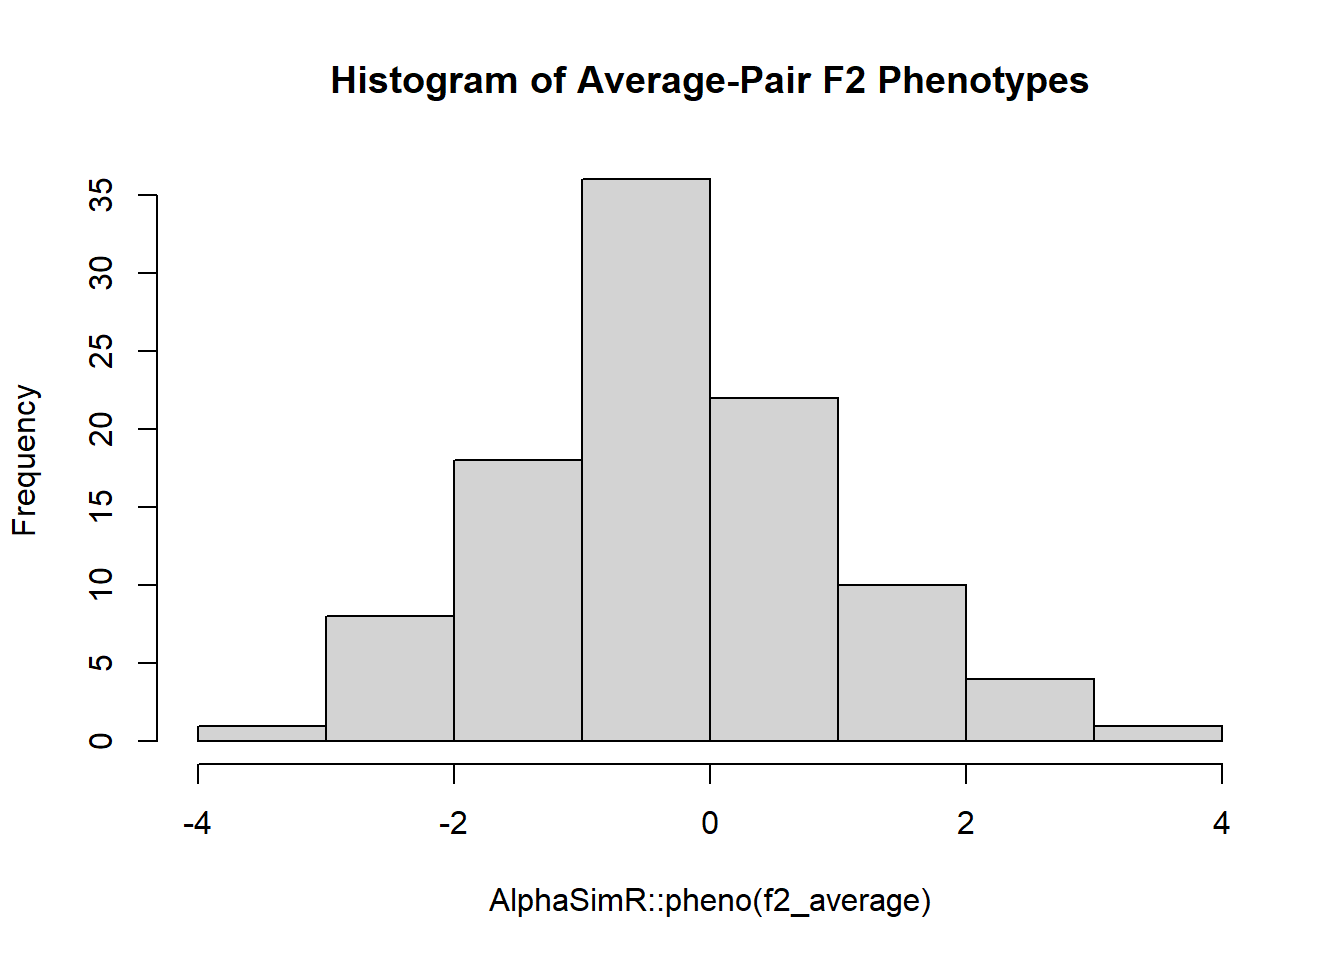
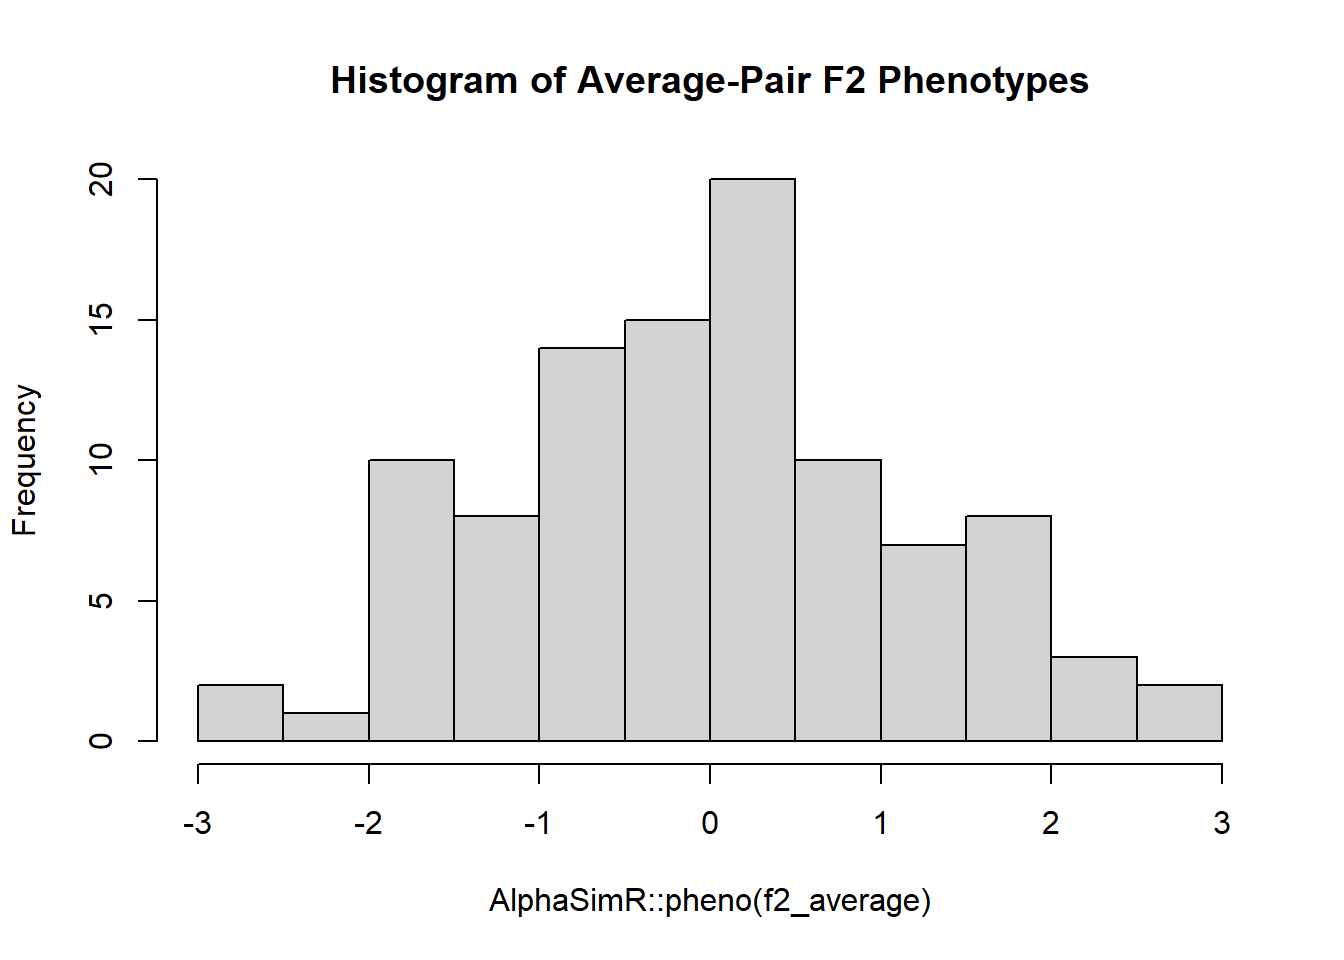
wflow_git_commit(all = TRUE)

diff --git a/docs/Lab2_ProgrammingAlphaSimR.html b/docs/Lab2_ProgrammingAlphaSimR.html
@@ -498,16 +498,16 @@ This reproducible <a href="http://rmarkdown.rstudio.com">R Markdown</a> analysis
 <div class="panel panel-default">
 <div class="panel-heading">
 <p class="panel-title">
-<a data-toggle="collapse" data-parent="#workflowr-checks" href="#strongRepositoryversionstrong0b0f372"> <span class="glyphicon glyphicon-ok text-success" aria-hidden="true"></span> <strong>Repository version:</strong> 0b0f372 </a>
+<a data-toggle="collapse" data-parent="#workflowr-checks" href="#strongRepositoryversionstrong124bcdf"> <span class="glyphicon glyphicon-ok text-success" aria-hidden="true"></span> <strong>Repository version:</strong> 124bcdf </a>
 </p>
 </div>
-<div id="strongRepositoryversionstrong0b0f372" class="panel-collapse collapse">
+<div id="strongRepositoryversionstrong124bcdf" class="panel-collapse collapse">
 <div class="panel-body">
 <p>
 Great! You are using Git for version control. Tracking code development and connecting the code version to the results is critical for reproducibility.
 </p>
 <p>
-The results in this page were generated with repository version 0b0f372. See the <em>Past versions</em> tab to see a history of the changes made to the R Markdown and HTML files.
+The results in this page were generated with repository version 124bcdf. See the <em>Past versions</em> tab to see a history of the changes made to the R Markdown and HTML files.
 </p>
 <p>
 Note that you need to be careful to ensure that all relevant files for the analysis have been committed to Git prior to generating the results (you can use <code>wflow_publish</code> or <code>wflow_git_commit</code>). workflowr only checks the R Markdown file, but you know if there are other scripts or data files that it depends on. Below is the status of the Git repository when the results were generated:
@@ -559,6 +559,23 @@ Message
 </tr>
 </thead>
 <tbody>
+<tr>
+<td>
+html
+</td>
+<td>
+124bcdf
+</td>
+<td>
+plantwizard
+</td>
+<td>
+2021-02-15
+</td>
+<td>
+Build site.
+</td>
+</tr>
 <tr>
 <td>
 Rmd
@@ -703,7 +720,7 @@ str(founders)</code></pre>
   ..@ father : chr [1:100] &quot;0&quot; &quot;0&quot; &quot;0&quot; &quot;0&quot; ...
   ..@ sex    : chr [1:100] &quot;H&quot; &quot;H&quot; &quot;H&quot; &quot;H&quot; ...
   ..@ nTraits: int 1
-  ..@ gv     : num [1:100, 1] 0.135 0.32 0.608 0.227 0.711 ...
+  ..@ gv     : num [1:100, 1] 0.0946 -0.4174 -2.3407 -0.8747 -1.8342 ...
   ..@ pheno  : num [1:100, 1] NA NA NA NA NA NA NA NA NA NA ...
   ..@ ebv    : num[1:100, 0 ] 
   ..@ gxe    :List of 1
@@ -816,16 +833,16 @@ str(founders)</code></pre>
   ..@ ploidy : int 2
   ..@ nLoci  : int [1:10] 1000 1000 1000 1000 1000 1000 1000 1000 1000 1000
   ..@ geno   :List of 10
-  .. ..$ : raw [1:125, 1:2, 1:100] 48 a8 04 a1 ...
-  .. ..$ : raw [1:125, 1:2, 1:100] 20 81 61 25 ...
-  .. ..$ : raw [1:125, 1:2, 1:100] 85 01 a4 26 ...
-  .. ..$ : raw [1:125, 1:2, 1:100] d8 2e a1 20 ...
-  .. ..$ : raw [1:125, 1:2, 1:100] 86 e2 a8 01 ...
-  .. ..$ : raw [1:125, 1:2, 1:100] 4c 20 2f fd ...
-  .. ..$ : raw [1:125, 1:2, 1:100] 97 8f 2c 8a ...
-  .. ..$ : raw [1:125, 1:2, 1:100] 44 6b 10 9a ...
-  .. ..$ : raw [1:125, 1:2, 1:100] 83 c9 0e c2 ...
-  .. ..$ : raw [1:125, 1:2, 1:100] 74 b0 a4 61 ...
+  .. ..$ : raw [1:125, 1:2, 1:100] 88 47 6c 01 ...
+  .. ..$ : raw [1:125, 1:2, 1:100] 9a 5b 22 1b ...
+  .. ..$ : raw [1:125, 1:2, 1:100] 44 07 02 4e ...
+  .. ..$ : raw [1:125, 1:2, 1:100] 01 45 70 90 ...
+  .. ..$ : raw [1:125, 1:2, 1:100] 3f a1 41 66 ...
+  .. ..$ : raw [1:125, 1:2, 1:100] ee 1f 15 21 ...
+  .. ..$ : raw [1:125, 1:2, 1:100] 08 09 e2 5e ...
+  .. ..$ : raw [1:125, 1:2, 1:100] 0c 18 81 17 ...
+  .. ..$ : raw [1:125, 1:2, 1:100] 48 40 3d 02 ...
+  .. ..$ : raw [1:125, 1:2, 1:100] 46 18 08 32 ...
   .. ..- attr(*, &quot;dim&quot;)= int [1:2] 10 1</code></pre>
 </div>
 <div id="population-information" class="section level3">
@@ -836,7 +853,7 @@ str(founders)</code></pre>
 testID &lt;- test@id
 firstInd &lt;- test[order(testID)[1]]
 print(testID)</code></pre>
-<pre><code>[1] &quot;84&quot; &quot;16&quot; &quot;36&quot;</code></pre>
+<pre><code>[1] &quot;76&quot; &quot;84&quot; &quot;16&quot;</code></pre>
 <pre class="r"><code>print(firstInd)</code></pre>
 <pre><code>An object of class &quot;Pop&quot; 
 Ploidy: 2 
@@ -868,7 +885,7 @@ cat(&quot;Expected fraction heterozygous&quot;, 1 / 2^nGenSelf, &quot;\n&quot;,
     &quot;Observed fraction heterozygous&quot;, fracHet, &quot;+/-&quot;, 
     round(2*sqrt(fracHet*(1-fracHet)/(nFounders*nChr*nQTLperChr)), 3), &quot;\n&quot;)</code></pre>
 <pre><code>Expected fraction heterozygous 0.125 
- Observed fraction heterozygous 0.0326 +/- 0.004 </code></pre>
+ Observed fraction heterozygous 0.0292 +/- 0.003 </code></pre>
 <blockquote>
 <p>What was wrong with my reasoning about the Expected fraction heterozygous?</p>
 </blockquote>
@@ -893,13 +910,13 @@ f1_extreme &lt;- AlphaSimR::makeCross(extremeInd, crossPlan)</code></pre>
 <pre class="r"><code>f2_average &lt;- AlphaSimR::self(f1_average, nProgeny=100)
 f2_average &lt;- AlphaSimR::setPheno(f2_average, varE=1)
 cat(&quot;Genotypic variance of F2 between average pair&quot;, round(AlphaSimR::varG(f2_average), 3))</code></pre>
-<pre><code>Genotypic variance of F2 between average pair 0.725</code></pre>
+<pre><code>Genotypic variance of F2 between average pair 0.455</code></pre>
 <pre class="r"><code>hist(AlphaSimR::pheno(f2_average), main=&quot;Histogram of Average-Pair F2 Phenotypes&quot;)</code></pre>
 <p><img src="figure/Lab2_ProgrammingAlphaSimR.Rmd/Make%20F2-1.png" width="672" style="display: block; margin: auto;" /></p>
 <pre class="r"><code>f2_extreme &lt;- AlphaSimR::self(f1_extreme, nProgeny=100)
 f2_extreme &lt;- AlphaSimR::setPheno(f2_extreme, varE=1)
 cat(&quot;Genotypic variance of F2 between extreme pair&quot;, round(AlphaSimR::varG(f2_extreme), 3))</code></pre>
-<pre><code>Genotypic variance of F2 between extreme pair 1.165</code></pre>
+<pre><code>Genotypic variance of F2 between extreme pair 1.157</code></pre>
 <pre class="r"><code>hist(AlphaSimR::pheno(f2_extreme), main=&quot;Histogram of Extreme-Pair F2 Phenotypes&quot;)</code></pre>
 <p><img src="figure/Lab2_ProgrammingAlphaSimR.Rmd/Make%20F2-2.png" width="672" style="display: block; margin: auto;" /></p>
 </div>
@@ -910,7 +927,7 @@ cat(&quot;Genotypic variance of F2 between extreme pair&quot;, round(AlphaSimR::
 f1_extremeMany &lt;- AlphaSimR::makeCross(extremeInd, crossPlan)
 f1_extremeMany &lt;- AlphaSimR::setPheno(f1_extremeMany, varE=1)
 cat(&quot;Genotypic variance of F1 between extreme pair&quot;, round(AlphaSimR::varG(f1_extremeMany), 3))</code></pre>
-<pre><code>Genotypic variance of F1 between extreme pair 0.02</code></pre>
+<pre><code>Genotypic variance of F1 between extreme pair 0.032</code></pre>
 <pre class="r"><code>hist(AlphaSimR::pheno(f1_extremeMany), main=&quot;Histogram of Extreme-Pair *F1* Phenotypes&quot;)</code></pre>
 <p><img src="figure/Lab2_ProgrammingAlphaSimR.Rmd/Make%20many%20hybrids-1.png" width="672" style="display: block; margin: auto;" /></p>
 <blockquote>
@@ -958,19 +975,16 @@ locale:
 attached base packages:
 [1] stats     graphics  grDevices utils     datasets  methods   base     
 
-other attached packages:
-[1] workflowr_1.6.2
-
 loaded via a namespace (and not attached):
  [1] Rcpp_1.0.5       rstudioapi_0.13  whisker_0.4      knitr_1.30      
- [5] magrittr_2.0.1   hms_0.5.3        here_1.0.1       R6_2.5.0        
- [9] rlang_0.4.8      AlphaSimR_0.13.0 stringr_1.4.0    tools_4.0.3     
-[13] xfun_0.19        git2r_0.28.0     htmltools_0.5.0  ellipsis_0.3.1  
-[17] rprojroot_2.0.2  yaml_2.2.1       digest_0.6.27    tibble_3.0.4    
-[21] lifecycle_0.2.0  crayon_1.3.4     readr_1.4.0      later_1.1.0.1   
-[25] vctrs_0.3.5      promises_1.1.1   fs_1.5.0         glue_1.4.2      
-[29] evaluate_0.14    rmarkdown_2.6    stringi_1.5.3    compiler_4.0.3  
-[33] pillar_1.4.7     httpuv_1.5.4     pkgconfig_2.0.3 </code></pre>
+ [5] magrittr_2.0.1   workflowr_1.6.2  hms_0.5.3        here_1.0.1      
+ [9] R6_2.5.0         rlang_0.4.8      AlphaSimR_0.13.0 stringr_1.4.0   
+[13] tools_4.0.3      xfun_0.19        git2r_0.28.0     htmltools_0.5.0 
+[17] ellipsis_0.3.1   yaml_2.2.1       digest_0.6.27    rprojroot_2.0.2 
+[21] tibble_3.0.4     lifecycle_0.2.0  crayon_1.3.4     readr_1.4.0     
+[25] later_1.1.0.1    vctrs_0.3.5      promises_1.1.1   fs_1.5.0        
+[29] glue_1.4.2       evaluate_0.14    rmarkdown_2.6    stringi_1.5.3   
+[33] compiler_4.0.3   pillar_1.4.7     httpuv_1.5.4     pkgconfig_2.0.3 </code></pre>
 </div>
 </div>
 
